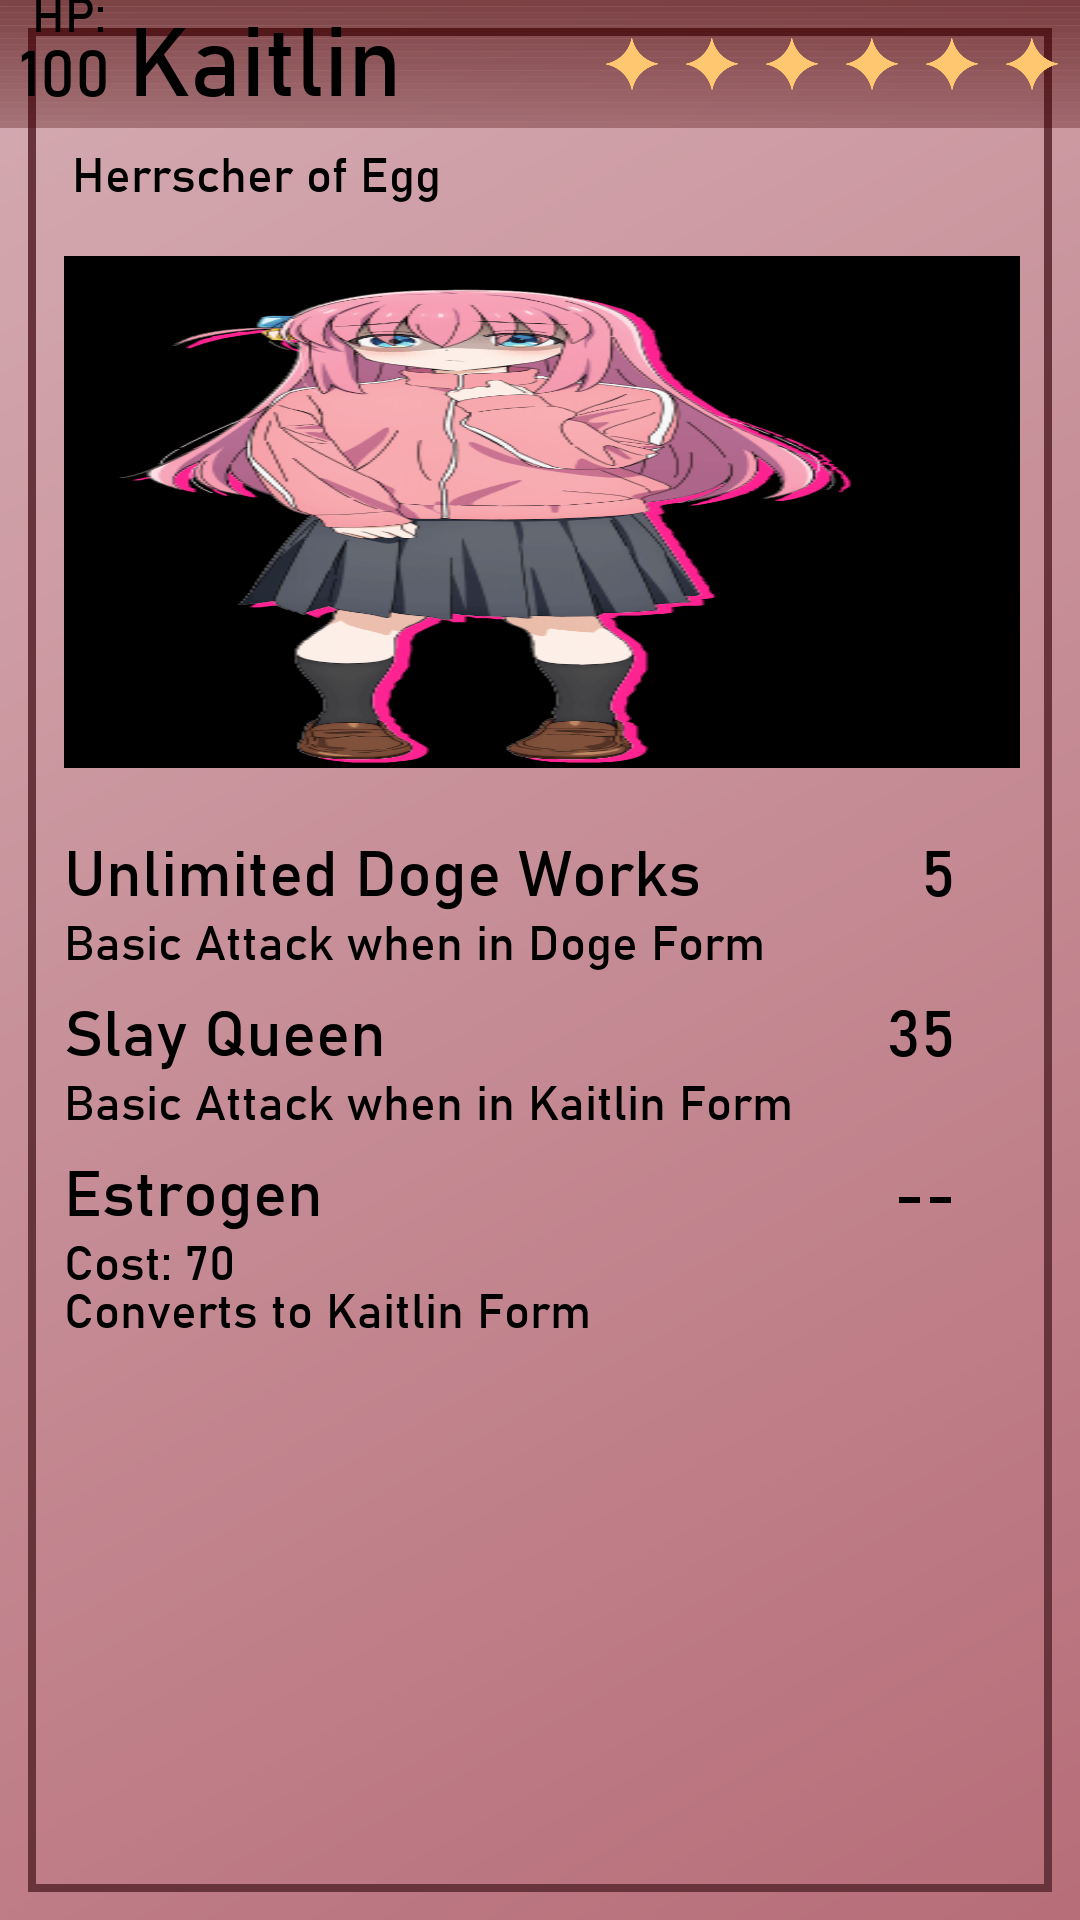
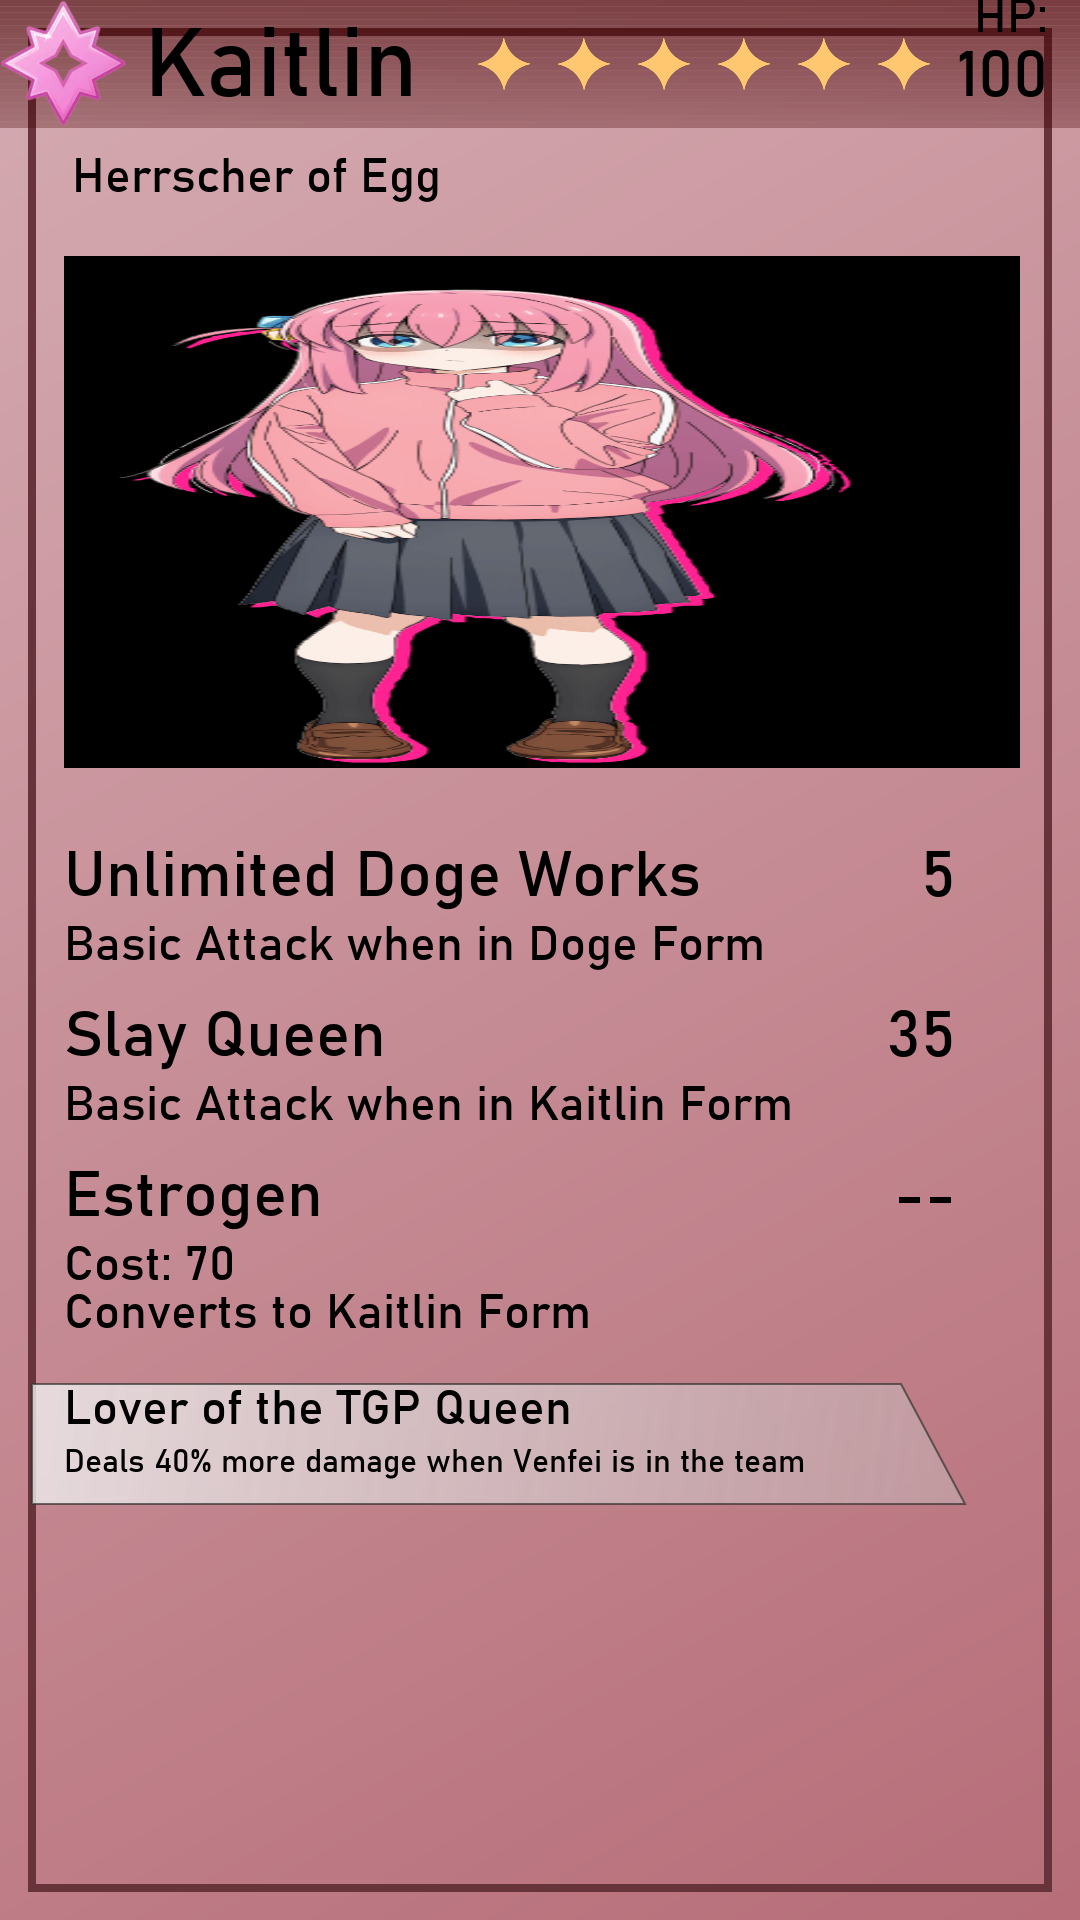
feat[card]: added abilities and types

diff --git a/card/card.js b/card/card.js
@@ -4,9 +4,10 @@ const fs = require('fs');
 const { Background, BackgroundType, TopBarType } = require('./background');
 const Rarity = require('./rarity');
 const Attack = require('./attack');
+const Ability = require('./ability');
 
 class Card {
-  constructor(name, description, rarity, hp, type, image, background, attacks){
+  constructor(name, description, rarity, hp, type, image, background, attacks, abilities){
     this.name = name;
     this.description = description;
     this.rarity = rarity;
@@ -15,6 +16,7 @@ class Card {
     this.image = image;
     this.background = background;
     this.attacks = attacks;
+    this.abilities = abilities;
   }
 
   async generateCard() {
@@ -24,22 +26,30 @@ class Card {
     // Set background
     await this.background.generateBackground(ctx);
 
+    try {
+      const typeImage = await Canvas.loadImage(`./assets/types/${this.type.toLowerCase()}.png`);
+      ctx.drawImage(typeImage, 0, 0, 128, 128);
+    } catch (error) {
+      console.warn(`Type image not found for: ${this.type}`);
+    }
+
+    // Draw HP on the rightmost side
+    ctx.font = '48px "Bahnschrift"';
+    ctx.fillStyle = '#000000';
+    ctx.textAlign = 'right';
+    ctx.fillText(`HP:`, 1048, 32);
+
+    ctx.font = '64px "Bahnschrift"';
+    ctx.fillStyle = '#000000';
+    ctx.textAlign = 'right';
+    ctx.fillText(`${this.hp}`, 1048, 96);
+
     await this.rarity.generateRarity(ctx);
 
     ctx.font = '96px "Bahnschrift"';
     ctx.fillStyle = '#000000';
     ctx.textAlign = 'left';
-    ctx.fillText(this.name, 128, 96);
-
-    ctx.font = '48px "Bahnschrift"';
-    ctx.fillStyle = '#000000';
-    ctx.textAlign = 'left';
-    ctx.fillText(`HP:`, 32, 32);
-
-    ctx.font = '64px "Bahnschrift"';
-    ctx.fillStyle = '#000000';
-    ctx.textAlign = 'center';
-    ctx.fillText(`${this.hp}`, 64, 96);
+    ctx.fillText(this.name, 144, 96);
 
     ctx.font = '48px "Bahnschrift"';
     ctx.fillStyle = '#000000';
@@ -58,6 +68,10 @@ class Card {
 
     for (const attack of this.attacks) {
       currentY = await attack.generateAttack(ctx, currentY);
+    }
+
+    for (const ability of this.abilities) {
+      currentY = await ability.generateAbility(ctx, currentY);
     }
 
     return canvas;
@@ -80,6 +94,9 @@ async function testGenerateCard() {
       new Attack('Slay Queen', 'Basic Attack when in Kaitlin Form', 35, 0),
       new Attack('Estrogen', 'Converts to Kaitlin Form', 0, 70),
     ],
+    [
+      new Ability('Lover of the TGP Queen', 'Deals 40% more damage when Venfei is in the team')
+    ]
   );
   const canvas = await card.generateCard();
   const buffer = canvas.toBuffer('image/png');

diff --git a/card/ability.js b/card/ability.js
@@ -1,0 +1,71 @@
+class Ability {
+  constructor(name, description) {
+    this.name = name;
+    this.description = description;
+  }
+
+  async generateAbility(ctx, y) {
+    let currentY = y;
+
+    // Calculate text dimensions to size the trapezium appropriately
+
+    ctx.font = '32px "Bahnschrift"';
+    const descMetrics = ctx.measureText(this.description);
+    ctx.font = '48px "Bahnschrift"';
+    const nameMetrics = ctx.measureText(this.name);
+    const maxTextWidth = Math.max(nameMetrics.width, descMetrics.width);
+
+    // Trapezium dimensions
+    const trapeziumHeight = 120; // Height for both name and description
+    const trapeziumTopWidth = maxTextWidth + 128; // Text width + padding
+    const trapeziumBottomWidth = trapeziumTopWidth + 64; // Slightly wider at bottom
+    const trapeziumLeft = 32; // Starting position
+    const trapeziumTop = currentY - 40; // Position above the text
+
+    // Create gradient for trapezium
+    const gradient = ctx.createLinearGradient(
+      trapeziumLeft,
+      trapeziumTop,
+      trapeziumLeft + trapeziumBottomWidth,
+      trapeziumTop + trapeziumHeight,
+    );
+    gradient.addColorStop(0, 'rgba(240, 240, 240, 0.8)'); // Translucent light gray at top
+    gradient.addColorStop(0.5, 'rgba(220, 220, 220, 0.6)'); // More translucent in middle
+    gradient.addColorStop(1, 'rgba(200, 200, 200, 0.4)'); // Most translucent at bottom
+
+    // Draw trapezium container with gradient
+    ctx.fillStyle = gradient;
+    ctx.strokeStyle = 'rgba(51, 51, 51, 0.7)'; // Semi-transparent dark border
+    ctx.lineWidth = 2;
+
+    ctx.beginPath();
+    ctx.moveTo(trapeziumLeft, trapeziumTop);
+    ctx.lineTo(trapeziumLeft + trapeziumTopWidth, trapeziumTop);
+    ctx.lineTo(trapeziumLeft + trapeziumBottomWidth, trapeziumTop + trapeziumHeight);
+    ctx.lineTo(trapeziumLeft, trapeziumTop + trapeziumHeight);
+    ctx.closePath();
+
+    ctx.fill();
+    ctx.stroke();
+
+    // Draw ability name on top of trapezium
+    ctx.font = '48px "Bahnschrift"';
+    ctx.fillStyle = '#000000';
+    ctx.textAlign = 'left';
+    ctx.fillText(this.name, 64, currentY);
+
+    currentY += 48;
+
+    // Draw ability description on top of trapezium
+    ctx.font = '32px "Bahnschrift"';
+    ctx.fillStyle = '#000000';
+    ctx.textAlign = 'left';
+    ctx.fillText(this.description, 64, currentY);
+
+    currentY += 64;
+
+    return currentY;
+  }
+}
+
+module.exports = Ability;

diff --git a/card/rarity.js b/card/rarity.js
@@ -12,7 +12,7 @@ class Rarity {
     const starSize = 64;
     const starSpacing = 16;
     const star = await Canvas.loadImage('./assets/common/star.png');
-    let x = 1080 - starSize - starSpacing;
+    let x = 1080 - 128 - starSize - starSpacing;
     const y = 32;
     for (let i = 0; i < this.rarity; i += 1) {
       ctx.drawImage(star, x, y, starSize, starSize);
